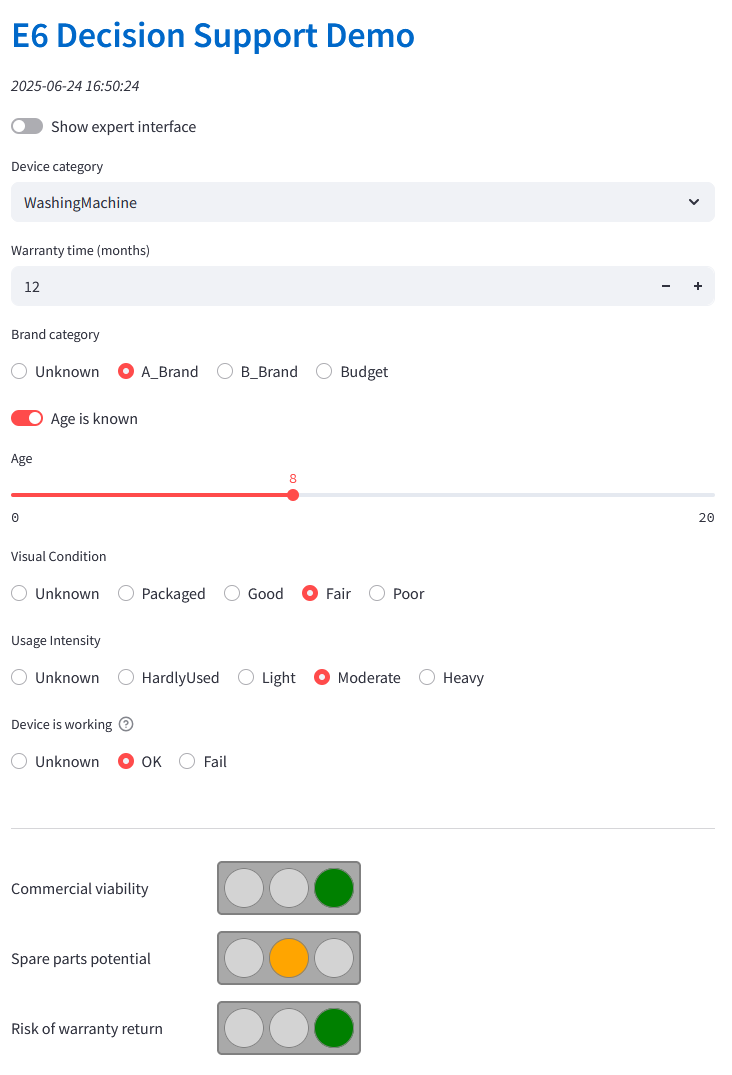
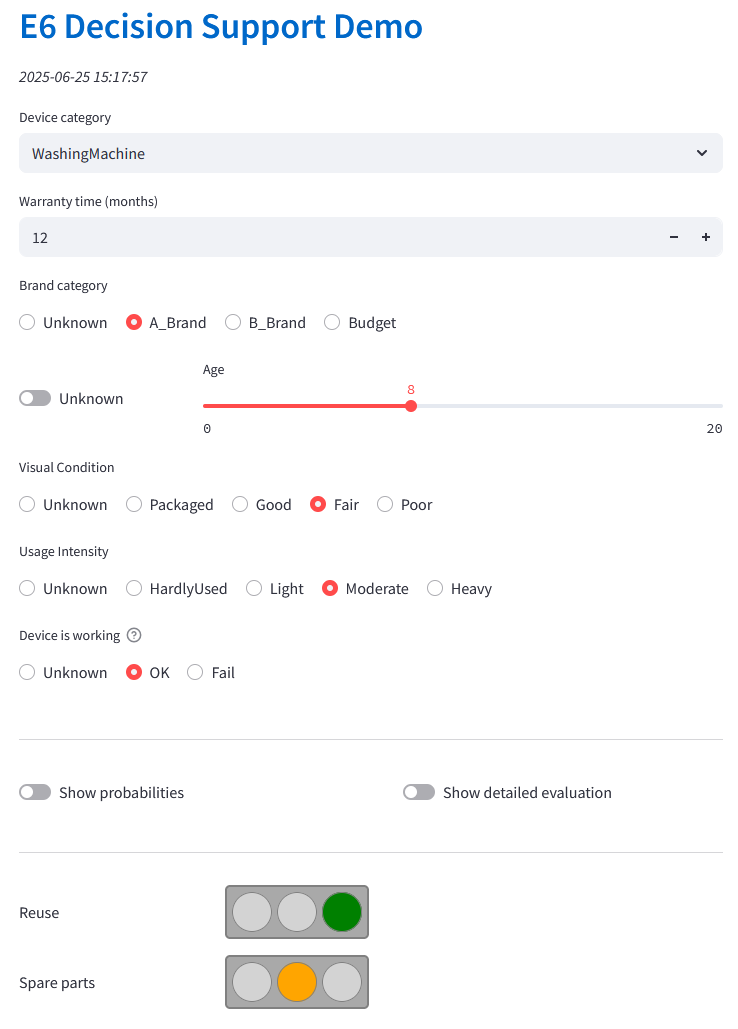
Simplified output results.

diff --git a/e6-dss.py b/e6-dss.py
@@ -1,16 +1,17 @@
 #%%
 import importlib
-import time
 from datetime import datetime
+
 import altair as alt
+import numpy as np
 import pandas as pd
-
-
-import streamlit as st
 import pysmile
+import streamlit as st
+
 from smile_info import SmileInfo
 
 UNKNOWN = 'Unknown'
+show_detailed_outcome = False
 show_expert_gui = False
 
 # Prevent load error when script is re-run, cache the resource
@@ -93,24 +94,32 @@ def update_discrete_radio(label, node_id, radio_widget = True, help=None):
     set_evidence(node_id, st.session_state[node_id])
 
 def update_gui():
-    global show_expert_gui
-    show_expert_gui = st.toggle('Show expert interface', value=False)
     update_discrete_radio("Device category", "deviceCategory", radio_widget=False)
     warranty_time = st.number_input("Warranty time (months)", min_value=1, max_value=24, value=12, key="warrantyTime")
     bni.set_cont_evidence('warrantyTime', warranty_time / 12.0)
     update_discrete_radio("Brand category", "brand")
-    age_enabled = st.toggle('Age is known', value=False)
-    age = st.slider("Age", min_value=0, max_value=20, value=8, disabled=not age_enabled, key="age")
-    bni.set_cont_evidence('actualAge', age if age_enabled else None)
+    age_col1, age_col2 = st.columns([1, 3], vertical_alignment='center')
+    with age_col1:
+        age_disabled = st.toggle('Unknown', value=True)
+    with age_col2:
+        age = st.slider("Age", min_value=0, max_value=20, value=8, disabled=age_disabled, key="age")
+    bni.set_cont_evidence('actualAge', age if age_disabled else None)
     update_discrete_radio("Visual Condition", "visualCondition")
     update_discrete_radio("Usage Intensity", "usageIntensity")
-    update_discrete_radio("Device is working", "deviceWorking", help="Is the device fully functional (now or after repairs)?")
+    update_discrete_radio("Device is working", "deviceWorking", help="Assume the device is fully functional (now or after repairs)?")
     st.divider()
+    global show_expert_gui
+    global show_detailed_outcome
+    results_toggle_col1, results_toggle_col2 = st.columns(2, gap='large')
+    with results_toggle_col1:
+        show_expert_gui = st.toggle('Show probabilities', value=False)
+    with results_toggle_col2:
+        show_detailed_outcome = st.toggle('Show detailed evaluation', value=False)
 
 def show_results():
     labels = [
-        'P(Good saleability)',
-        'P(Good spare parts)',
+        'P(Commercial viability)',
+        'P(Spare parts quality)',
         'P(OK at age)',
         'P(Fail in warranty)',
     ]
@@ -139,36 +148,64 @@ def show_results():
     )
     st.altair_chart(probability_bars)
 
-def show_badges():
-    configs = (
-        {
-            'label': 'Commercial viability',
-            'cutoff': [40, 60],
-            'value': bni.get_posterior('saleability', 'Good') * 100,
-        }, {
-            'label': 'Spare parts potential',
-            'cutoff': [40, 60],
-            'value': bni.get_posterior('sparePartsQuality', 'Good') * 100,
-        }, {
-            'label': 'Risk of warranty return',
-            'cutoff': [94, 96],
-            'value': bni.get_posterior('deviceStillWorking', 'OK') * 100,
-        }
-    )
-    for cfg in configs:
-        color = "red" if cfg['value'] < cfg['cutoff'][0] else "green" if cfg['value'] >= cfg['cutoff'][1] else "orange"
-        st.html(f'''
-            <div style="display: flex; flex-flow: row nowrap; justify-items: space-between; align-items: center; width: 350px;">
-                <span style="flex: 1 1 auto">{cfg['label']}</span>
-                <div style="display:flex; flex-flow: row nowrap; flex: none; border: 2px solid grey; border-radius: 5px; gap: 5px; padding: 5px; background-color: darkgray;">
-                    <span style="flex: none; border-radius: 50%; width: 40px; height: 40px; background-color: {color if color == "red" else "lightgrey"}; border: 1px solid grey"></span>
-                    <span style="flex: none; border-radius: 50%; width: 40px; height: 40px; background-color: {color if color == "orange" else "lightgrey"}; border: 1px solid grey"></span>
-                    <span style="flex: none; border-radius: 50%; width: 40px; height: 40px; background-color: {color if color == "green" else "lightgrey"}; border: 1px solid grey"></span>
-                </div>
+def show_traffic_light(label, color):
+    st.html(f'''
+        <div style="display: flex; flex-flow: row nowrap; justify-items: space-between; align-items: center; width: 350px;">
+            <span style="flex: 1 1 auto">{label}</span>
+            <div style="display:flex; flex-flow: row nowrap; flex: none; border: 2px solid grey; border-radius: 5px; gap: 5px; padding: 5px; background-color: darkgray;">
+                <span style="flex: none; border-radius: 50%; width: 40px; height: 40px; background-color: {color if color == "red" else "lightgrey"}; border: 1px solid grey"></span>
+                <span style="flex: none; border-radius: 50%; width: 40px; height: 40px; background-color: {color if color == "orange" else "lightgrey"}; border: 1px solid grey"></span>
+                <span style="flex: none; border-radius: 50%; width: 40px; height: 40px; background-color: {color if color == "green" else "lightgrey"}; border: 1px solid grey"></span>
             </div>
-        ''')
+        </div>
+    ''')
 
-# Start main program
+def eval_kpi(cfgs):
+    colors = np.array([c['color'] for c in cfgs])
+    return "green" if np.all(colors == "green") else "red" if np.any(colors == "red") else "orange"
+
+def show_evaluation():
+    configs = ({
+        'label': 'Commercial viability',
+        'cutoff': [40, 60],
+        'value': bni.get_posterior('saleability', 'Good') * 100,
+        'kpi': ['reuse'],
+    }, {
+        'label': 'Spare parts quality',
+        'cutoff': [40, 60],
+        'value': bni.get_posterior('sparePartsQuality', 'Good') * 100,
+        'kpi': ['spares'],
+    }, {
+        'label': 'Risk of warranty return',
+        'cutoff': [94, 96],
+        'value': bni.get_posterior('deviceStillWorking', 'OK') * 100,
+        'kpi': ['reuse'],
+    })
+    main_config = {
+        'label': 'Reuse',
+        'value': bni.get_posterior('saleability', 'Good') * 100,
+    }
+    for cfg in configs:
+        cfg['color'] = "red" if cfg['value'] < cfg['cutoff'][0] else "green" if cfg['value'] >= cfg['cutoff'][1] else "orange"
+    reuse_configs = filter(lambda cfg: 'reuse' in cfg['kpi'], configs)
+    spares_configs = filter(lambda cfg: 'spares' in cfg['kpi'], configs)
+    reuse_color = eval_kpi(reuse_configs)
+    spares_color = eval_kpi(spares_configs)
+    st.divider()
+    lights_col1, lights_col2 = st.columns(2, gap='large')
+    with lights_col1:
+        show_traffic_light('Reuse', reuse_color)
+        show_traffic_light('Spare parts', spares_color)
+    with lights_col2:
+        if show_detailed_outcome:
+            for cfg in configs:
+                show_traffic_light(cfg['label'], cfg['color'])
+    if show_expert_gui:
+        st.divider()
+        st.markdown("_Probabilities are conditioned on values set above!_\n")
+        show_results()
+
+##############  Start main program  ################
 import_license()
 print_header()
 
@@ -181,7 +218,4 @@ update_gui()
 # Calculate the beliefs
 bni.update_beliefs()
 
-show_badges()
-if show_expert_gui:
-    st.markdown("_Probabilities are conditioned on values set above!_\n")
-    show_results()
+show_evaluation()

diff --git a/README.md b/README.md
@@ -42,7 +42,7 @@ Do in PyCharm: Help -> Find Action: Registry
 Lookup <code>python.debug.asyncio.repl</code> and uncheck the box.
 
 ## Example
-When running the app with streamlit, the result looks like [![this screenshot](doc/dss-screenshot.png)
+See [here](doc/examples.md) for an example when running the app with streamlit.
 
 In the current version, tje model evaluates the inputs and calculates the probability for:
 * Commercial viability: Could the device still be sold in the thrift shop?

diff --git a/doc/examples.md b/doc/examples.md
@@ -1,0 +1,9 @@
+# Examples
+
+A screenshot of the GeNie model:
+
+![DSS GeNie model](dss-genie-screenshot.png)
+
+With Streamlit the result looks like:
+
+![DSS result](dss-screenshot.png)
